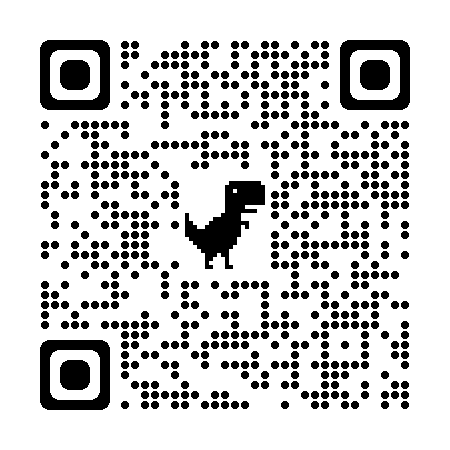
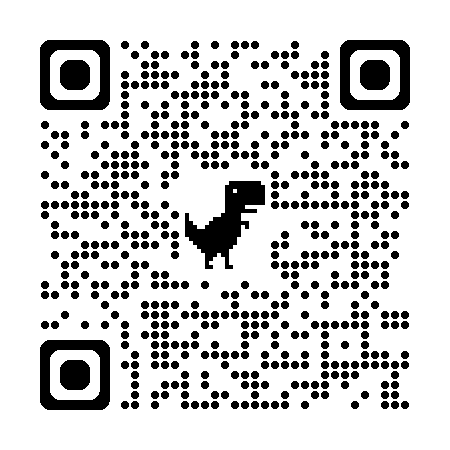
adicionado qrcode

diff --git a/index.html b/index.html
@@ -108,7 +108,7 @@
                 <a href="WireFrame.pdf" target=" _blank">PDF</a>
             </div>
             <div id="qrcode">
-
+                <img src="img/qrcode.png" alt="qrcode">
             </div>
 
         </div>
